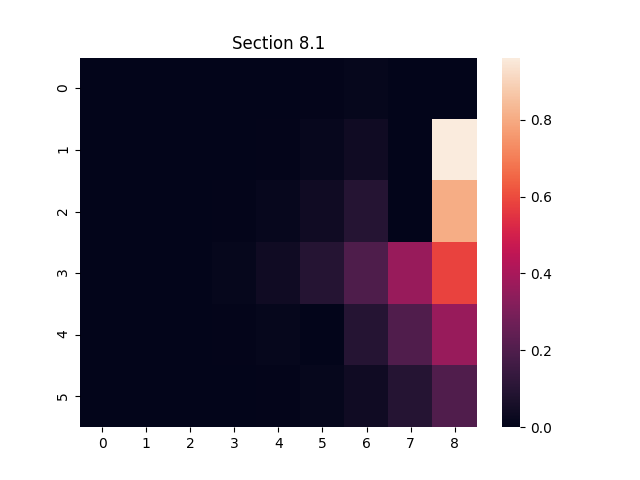
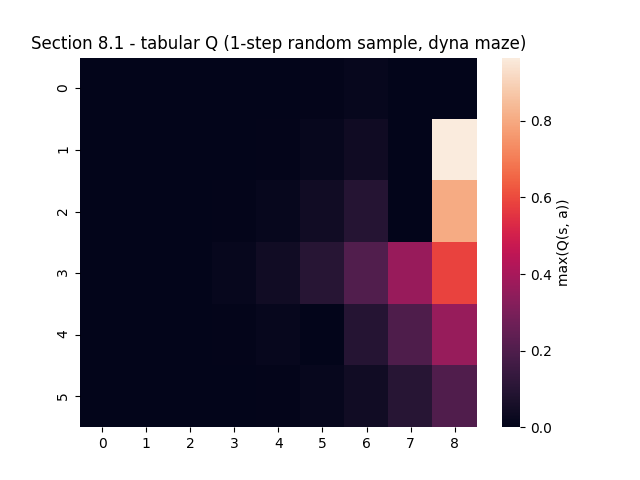
title and legend for section 8.1 plot

diff --git a/chapter8/figures.py b/chapter8/figures.py
@@ -19,11 +19,12 @@ def save_plot(filename):
 
 def section_8_1():
   env = DynaMaze()
-  alg = TabularQ(SampleModel(env), SEC_8_1_ALP, DYNA_MAZE_GAMMA)
+  alg = TabularQ(FullModel(env), SEC_8_1_ALP, DYNA_MAZE_GAMMA)
+  alg.seed(0)
   alg.rand_sam_one_step_pla(SEC_8_1_N_STEPS, decay=True)
   V = alg.get_V()
-  plt.title('Section 8.1')
-  sns.heatmap(to_arr(V))
+  plt.title('Section 8.1 - tabular Q (1-step random sample, dyna maze)')
+  sns.heatmap(to_arr(V), cbar_kws={'label': 'max(Q(s, a))'})
   save_plot('section8.1')
   plt.show()
 

diff --git a/chapter8/tabular_q.py b/chapter8/tabular_q.py
@@ -1,4 +1,5 @@
 from utils import sample
+import numpy as np
 
 class TabularQ:
   def __init__(self, model, alpha, gamma):
@@ -25,6 +26,9 @@ class TabularQ:
 
   def get_V(self):
     return {s: max(self.Q[(s, a)] for a in self.A[s]) for s in self.S}
+
+  def seed(self, seed):
+    np.random.seed(seed) 
 
   def reset(self):
     for s in self.S:

diff --git a/chapter8/utils.py b/chapter8/utils.py
@@ -17,7 +17,6 @@ def to_arr(V):
     min_x, min_y = min(x, min_x), min(y, min_y)
     max_x, max_y = max(x, max_x), max(y, max_y)
   arr = np.zeros((max_x - min_x + 1, max_y - min_y + 1))
-  print(arr.shape)
   for pos, val in V.items():
     arr[pos.x, pos.y] = val
   return arr
